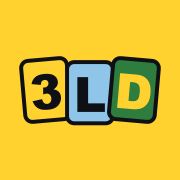
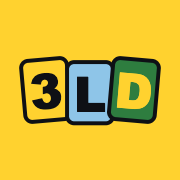
Update brand assets with FT Baile-correct design-tool exports
Drops in the polished SVGs and PNGs from the latest design-tool
handoff. The previous PNGs in app/ were sharp-rasterized fallbacks
with substituted system fonts; these have proper FT Baile and the
correct kerning, shadow, and italic script for "Small words, big
stakes."

Replaces:
- app/icon.svg, app/icon.png (512), app/apple-icon.png (180)
- app/opengraph-image.png (1200×630)
- brand/icon.svg, brand/og-image.svg (kept as references — sharp
  rebuilds will still substitute fonts)

Adds the new Google OAuth consent screen logo to public/ so it has a
stable URL to paste into Google Cloud → OAuth consent screen → Logo:
- public/google-app-logo.svg
- public/google-app-logo-120.png
- public/google-app-logo-240.png
- brand/google-app-logo.svg

Updates scripts/build-brand.ts header to flag itself as a no-fonts
fallback rather than the canonical regeneration path.

diff --git a/scripts/build-brand.ts b/scripts/build-brand.ts
@@ -1,18 +1,19 @@
 /**
- * Rasterizes brand SVGs into the PNG variants Next.js expects under app/.
+ * Fallback rasterizer for brand SVGs → PNG variants under app/.
+ *
+ * NOTE: The canonical PNG outputs in app/ come from the design tool and
+ * use FT Baile properly. This script is a no-fonts fallback only — sharp
+ * doesn't have access to the FT Baile family, so its output substitutes
+ * system fonts and looks visibly different. Use it only when the design
+ * tool isn't available and you need *some* asset to ship.
  *
  * Run with: npm run build-brand
  *
  * Sources live in brand/ so they don't get served as static routes.
  * Outputs:
- *   brand/icon.svg          → app/icon.png            (512×512)
- *   brand/icon.svg          → app/apple-icon.png      (180×180)
- *   brand/og-image.svg      → app/opengraph-image.png (1200×630)
- *
- * sharp ships with the Next install, so no extra dependency is needed.
- * Font rendering inside the SVGs uses widely-available system stacks
- * (Arial Black / Helvetica) so the rasterized output is consistent
- * across machines.
+ *   brand/icon.svg     → app/icon.png            (512×512)
+ *   brand/icon.svg     → app/apple-icon.png      (180×180)
+ *   brand/og-image.svg → app/opengraph-image.png (1200×630)
  */
 
 import { readFileSync, writeFileSync } from 'node:fs';
